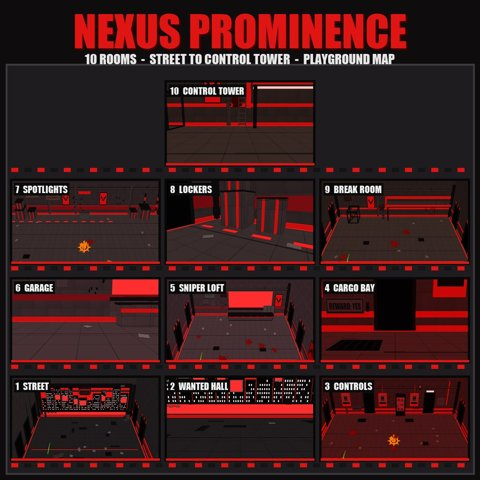
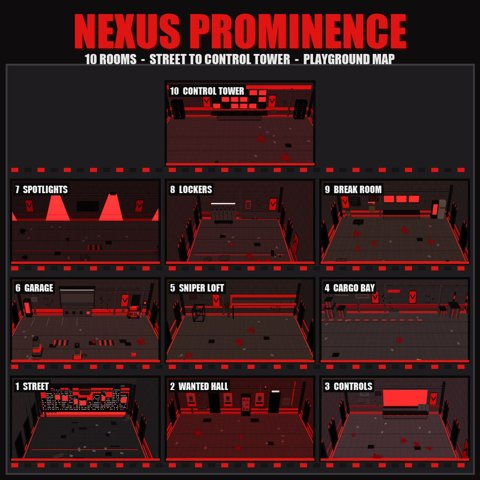
Workshop page pictures: ten rooms on the cover, no editor placeholders in the shots

diff --git a/Editor/NexusShots.cs b/Editor/NexusShots.cs
@@ -23,6 +23,29 @@ public static class NexusShots
         if (System.Array.IndexOf(args, "-showLayout") < 0)
             foreach (var r in Object.FindObjectsOfType<Renderer>())
                 if (r.transform.parent != null && r.transform.parent.name == "Layout") r.enabled = false;
+        // SceneTools placeholder meshes (ghost_squad, ghost_weapon, ghost_character, cover and door ghosts) use the
+        // Madness/GUI shaders; the game replaces them, so a shot that shows them (an orange squad badge, a green
+        // weapon sliver) shows something no player sees. -showMarkers keeps them.
+        if (System.Array.IndexOf(args, "-showMarkers") < 0)
+            foreach (var r in Object.FindObjectsOfType<Renderer>())
+                if (r.sharedMaterial != null && r.sharedMaterial.shader != null && r.sharedMaterial.shader.name.StartsWith("Madness/GUI")) r.enabled = false;
+        // -dumpRenderers <file>: one line per distinct enabled renderer (path tail, mesh, shader, layer), to find
+        // editor-only markers that show in the shots.
+        int di = System.Array.IndexOf(args, "-dumpRenderers");
+        if (di >= 0 && di + 1 < args.Length)
+        {
+            var seen = new SortedDictionary<string, int>();
+            foreach (var r in Object.FindObjectsOfType<Renderer>())
+            {
+                if (!r.enabled || !r.gameObject.activeInHierarchy) continue;
+                var mf = r.GetComponent<MeshFilter>(); var t = r.transform;
+                string path = t.name; for (int k = 0; k < 3 && t.parent != null; k++) { t = t.parent; path = t.name + "/" + path; }
+                path = System.Text.RegularExpressions.Regex.Replace(path, "[0-9]+", "#");
+                string key = path + " | " + r.GetType().Name + " | " + (mf != null && mf.sharedMesh != null ? mf.sharedMesh.name : "-") + " | " + (r.sharedMaterial != null ? r.sharedMaterial.shader.name + ":" + r.sharedMaterial.name : "-") + " | layer " + LayerMask.LayerToName(r.gameObject.layer) + " | comps " + string.Join(",", r.GetComponents<Component>().Select(c => c == null ? "null" : c.GetType().Name).ToArray());
+                int n; seen.TryGetValue(key, out n); seen[key] = n + 1;
+            }
+            File.WriteAllLines(args[di + 1], seen.Select(kv => kv.Value + " x " + kv.Key).ToArray());
+        }
         foreach (var room in rooms)
         {
             var cam = room.CameraPoint;

diff --git a/tools/make_preview.py b/tools/make_preview.py
@@ -2,7 +2,8 @@
 # Run from the folder that holds shots/: python make_preview.py -> preview.jpg
 from PIL import Image, ImageDraw, ImageFont, ImageFilter
 import glob, os
-import re; shots = sorted(p for p in glob.glob("shots/Room_*.png") if not re.search(r"_(BL|BR|FL|FR).png$", p))
+import re; shots = sorted(p for p in glob.glob("shots/Room_*.png") if not re.search(r"_(BL|BR|FL|FR|film).png$", p))
+assert len(shots) == 10, "expected ten room shots, found %d" % len(shots)
 names = ["STREET","WANTED HALL","CONTROLS","CARGO BAY","SNIPER LOFT","GARAGE","SPOTLIGHTS","LOCKERS","BREAK ROOM","CONTROL TOWER"]
 W=H=1024; bg=(14,12,13); red=(225,20,20)
 im=Image.new("RGB",(W,H),bg); d=ImageDraw.Draw(im)

diff --git a/ai-docs/log.md b/ai-docs/log.md
@@ -32,3 +32,6 @@ Earlier history: madnesswright's ai-docs/log.md and its git history (this reposi
 - 2026-11-14 22:07 continue-prompt session: stop point. No answers in nexus-endtest-2026-11-14; the game was open on zu (Player.log 22:06, map loaded, main menu). Nothing built.
 - 2026-11-14 Released build zu to Workshop item 3837705778 on the owner's word (played zu, log clean): change-notes-2026-11-14zu.txt, preview and gallery from shots-zu. release.sh hard-codes ../nexus-prominence as NP, so from a worktree it was run as a patched copy; the .sobj is untracked and was copied from the deployed Mods folder. Status finished.
 - 2026-11-15 New chain set up: film geometry and arrivals (plans/2026-11-15-film-geometry-continue-prompt.md and its brief). The owner asked for the film's ramps, steps, higher areas and pillars in the rooms, with five screenshots (lab frames/owner-2026-11-15-*.png), and passed on a player's report that backup is only met when walking back through finished rooms. Nothing built. HANDOFF.md trimmed: the ten rounds entries moved word for word to archive/handoff-ten-rounds-2026-11-14.md.
+
+## 2026-11-15
+- Workshop page pictures fixed on the owner's ask (item 3837705778, map file unchanged, build zu): the cover's tile list picked up the `_film` renders, so tiles 2-10 showed rooms 1-5 twice under wrong labels (tools/make_preview.py now skips `_film` and asserts ten shots); the screenshots showed SceneTools placeholders (orange `ghost_squad`, green `ghost_weapon`), which NexusShots now hides (every renderer on a `Madness/GUI` shader; `-showMarkers` keeps them, `-dumpRenderers <file>` lists what a shot can show). tools/release.sh runs from any worktree and takes the .sobj from the lab's sobj-<b>/. Old shots kept as lab shots-zu-markers. Uploaded with change-notes-2026-11-15zu-page.txt: result OK, gallery result 1; live page shows 7 previews and 2.363 MB.
